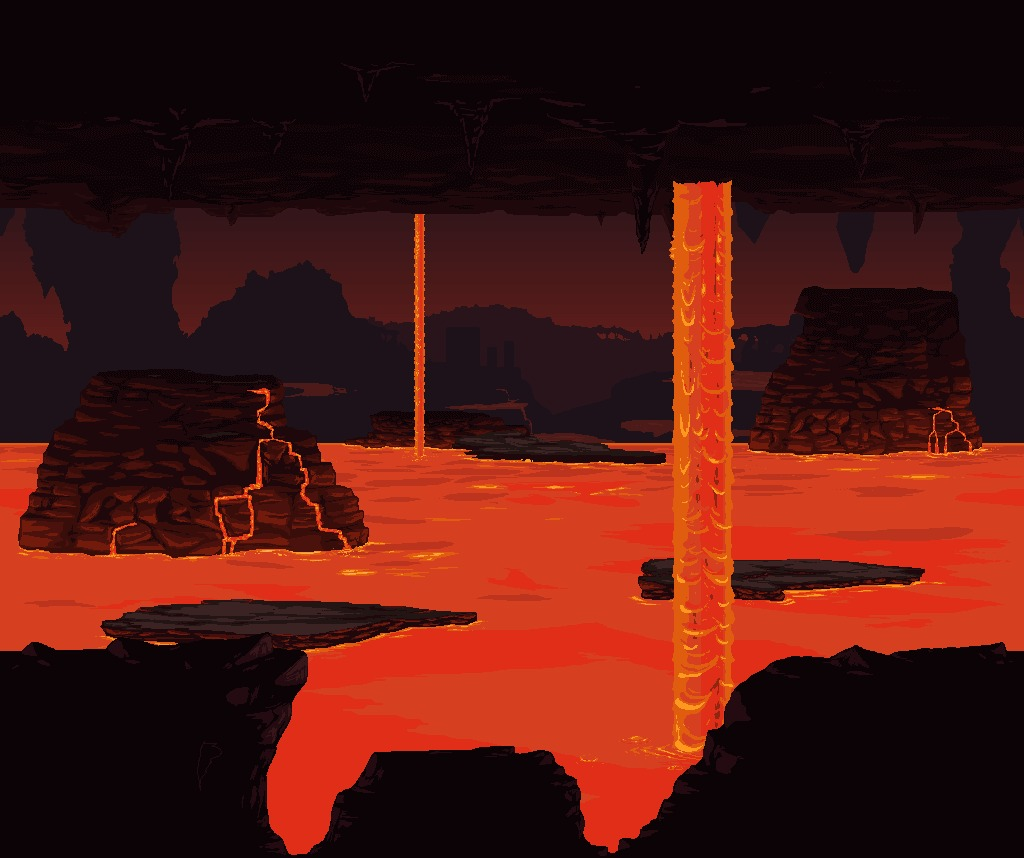
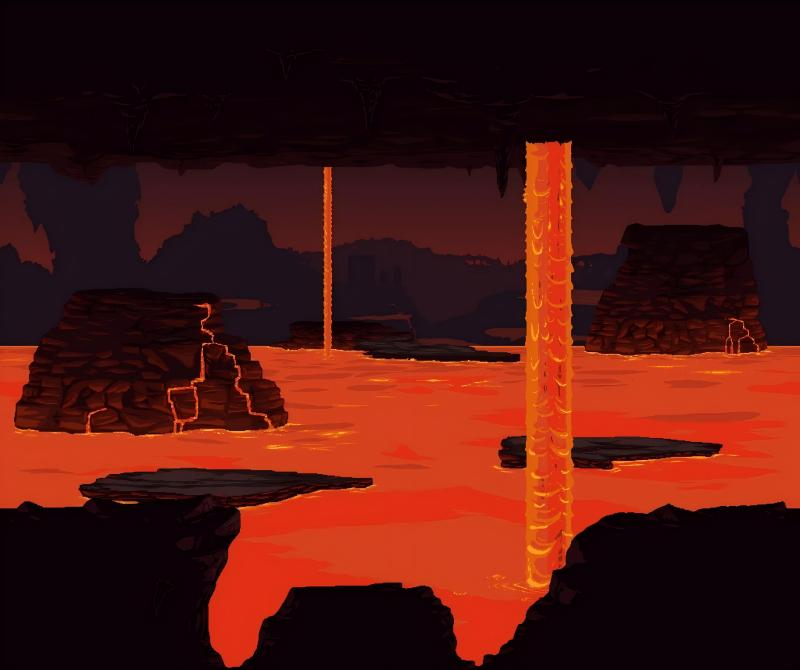
adding player

diff --git a/background.py b/background.py
@@ -19,21 +19,42 @@ class Background:
             "under_jungle": pygame.image.load(IMAGES_PATH["under_jungle"]).convert(),
             "under_ocean": pygame.image.load(IMAGES_PATH["under_ocean"]).convert()
         }
+        self.is_vertical_tiled = {
+            "forest": False,
+            "desert": False,
+            "snow": False,
+            "jungle": False,
+            "ocean": False,
+            "hell": False,
+            "space": True,
+            "cave": True,
+            "under_ground": True,
+            "under_snow": True,
+            "under_jungle": True,
+            "under_ocean": True
+        }
         # set the background image
+        self.current_biome = "forest"
         self.current_bg = self.bg_images["forest"]
         self.width, self.height = self.current_bg.get_rect().size
 
     def update(self, biome):
         if biome in self.bg_images and self.current_bg != self.bg_images[biome]:
+            self.current_biome = biome
             self.current_bg = self.bg_images[biome]
             self.width, self.height = self.current_bg.get_rect().size
 
-    def draw(self, camera_x, camera_y):
-        pos_x = (camera_x // self.slowing_rate) % self.width
-        pos_y = (camera_y // self.slowing_rate) % self.height
+    def draw(self, player_x, player_y):
+        pos_x = (player_x // self.slowing_rate) % self.width
+        pos_y = (player_y // self.slowing_rate) % self.height
         num_tiles_x = SCREEN_WIDTH // self.width + 2
         num_tiles_y = SCREEN_HEIGHT // self.height + 2
 
+        vertical_tile = self.is_vertical_tiled.get(self.current_biome, True)
+
         for i in range(-1, num_tiles_x):
-            for j in range(-1, num_tiles_y):
-                self.screen.blit(self.current_bg, (i * self.width - pos_x, j * self.height - pos_y))
+            if vertical_tile:
+                for j in range(-1, num_tiles_y):
+                    self.screen.blit(self.current_bg, (i * self.width - pos_x, j * self.height - pos_y))
+            else:
+                self.screen.blit(self.current_bg, (i * self.width - pos_x, 0))

diff --git a/game.py b/game.py
@@ -10,7 +10,6 @@ class Game:
     def __init__(self):
         # Initialize game window, etc.
         pygame.init()
-        self.camera = Camera()
         self.screen = pygame.display.set_mode((SCREEN_WIDTH, SCREEN_HEIGHT))
         self.clock = pygame.time.Clock()
         self.running = True
@@ -21,6 +20,7 @@ class Game:
         self.grid = {}
         self.world = World()
         self.background = Background(self.screen)
+        self.player = Player()
 
         self.run()
 
@@ -35,8 +35,9 @@ class Game:
 
     def update(self):
         # Game loop - update
-        self.camera.handle_input()
-        biome  = self.world.get_biome(self.camera.x, self.camera.y)
+        keys = pygame.key.get_pressed()
+        self.player.update(keys)
+        biome = self.world.get_biome(self.player.x, self.player.y)
         self.background.update(biome)
 
     def events(self):
@@ -50,7 +51,7 @@ class Game:
     def draw(self):
         # Game loop - draw
         self.screen.fill(BLACK)
-        self.background.draw(self.camera.x, self.camera.y)
+        self.background.draw(self.player.x, self.player.y)
         pygame.display.flip()
 
     def show_start_screen(self):

diff --git a/player.py b/player.py
@@ -1,0 +1,32 @@
+import pygame
+from settings import *
+
+class Player:
+    def __init__(self):
+        self.width = 32
+        self.height = 48
+        self.color = (0, 255, 0)
+        self.x = SCREEN_WIDTH // 2
+        self.y = SCREEN_HEIGHT // 2
+        self.speed = 32
+        self.max_x = MAP_WIDTH - SCREEN_WIDTH
+        self.max_y = MAP_HEIGHT - SCREEN_HEIGHT
+
+    def handle_input(self, keys=None):
+        if keys[pygame.K_w] or keys[pygame.K_UP]:
+            self.y -= self.speed
+        if keys[pygame.K_s] or keys[pygame.K_DOWN]:
+            self.y += self.speed
+        if keys[pygame.K_a] or keys[pygame.K_LEFT]:
+            self.x -= self.speed
+        if keys[pygame.K_d] or keys[pygame.K_RIGHT]:
+            self.x += self.speed
+
+        self.x = max(0, min(self.x, self.max_x))
+        self.y = max(0, min(self.y, self.max_y))
+
+    def update(self, keys=None):
+        self.handle_input(keys)
+
+    def draw(self, surface):
+        pygame.draw.rect(surface, self.color, (self.x, self.y, self.width, self.height))

diff --git a/world.py b/world.py
@@ -1,4 +1,5 @@
 import random
+import pygame
 from settings import *
 
 class World:
@@ -80,6 +81,8 @@ class World:
         return biome_map
 
     def get_biome(self, x, y):
+        x = x // TILE_SIZE
+        y = y // TILE_SIZE
         if 0 <= x < ACTUAL_MAP_WIDTH and 0 <= y < ACTUAL_MAP_HEIGHT:
             return self.biome_map[x][y]
         return "void"

diff --git a/settings.py b/settings.py
@@ -1,7 +1,7 @@
 # game settings
 TITLE = "PyTerraria"
 SCREEN_WIDTH = 1080
-SCREEN_HEIGHT = 720
+SCREEN_HEIGHT = 655
 FPS = 60
 
 # world properties
